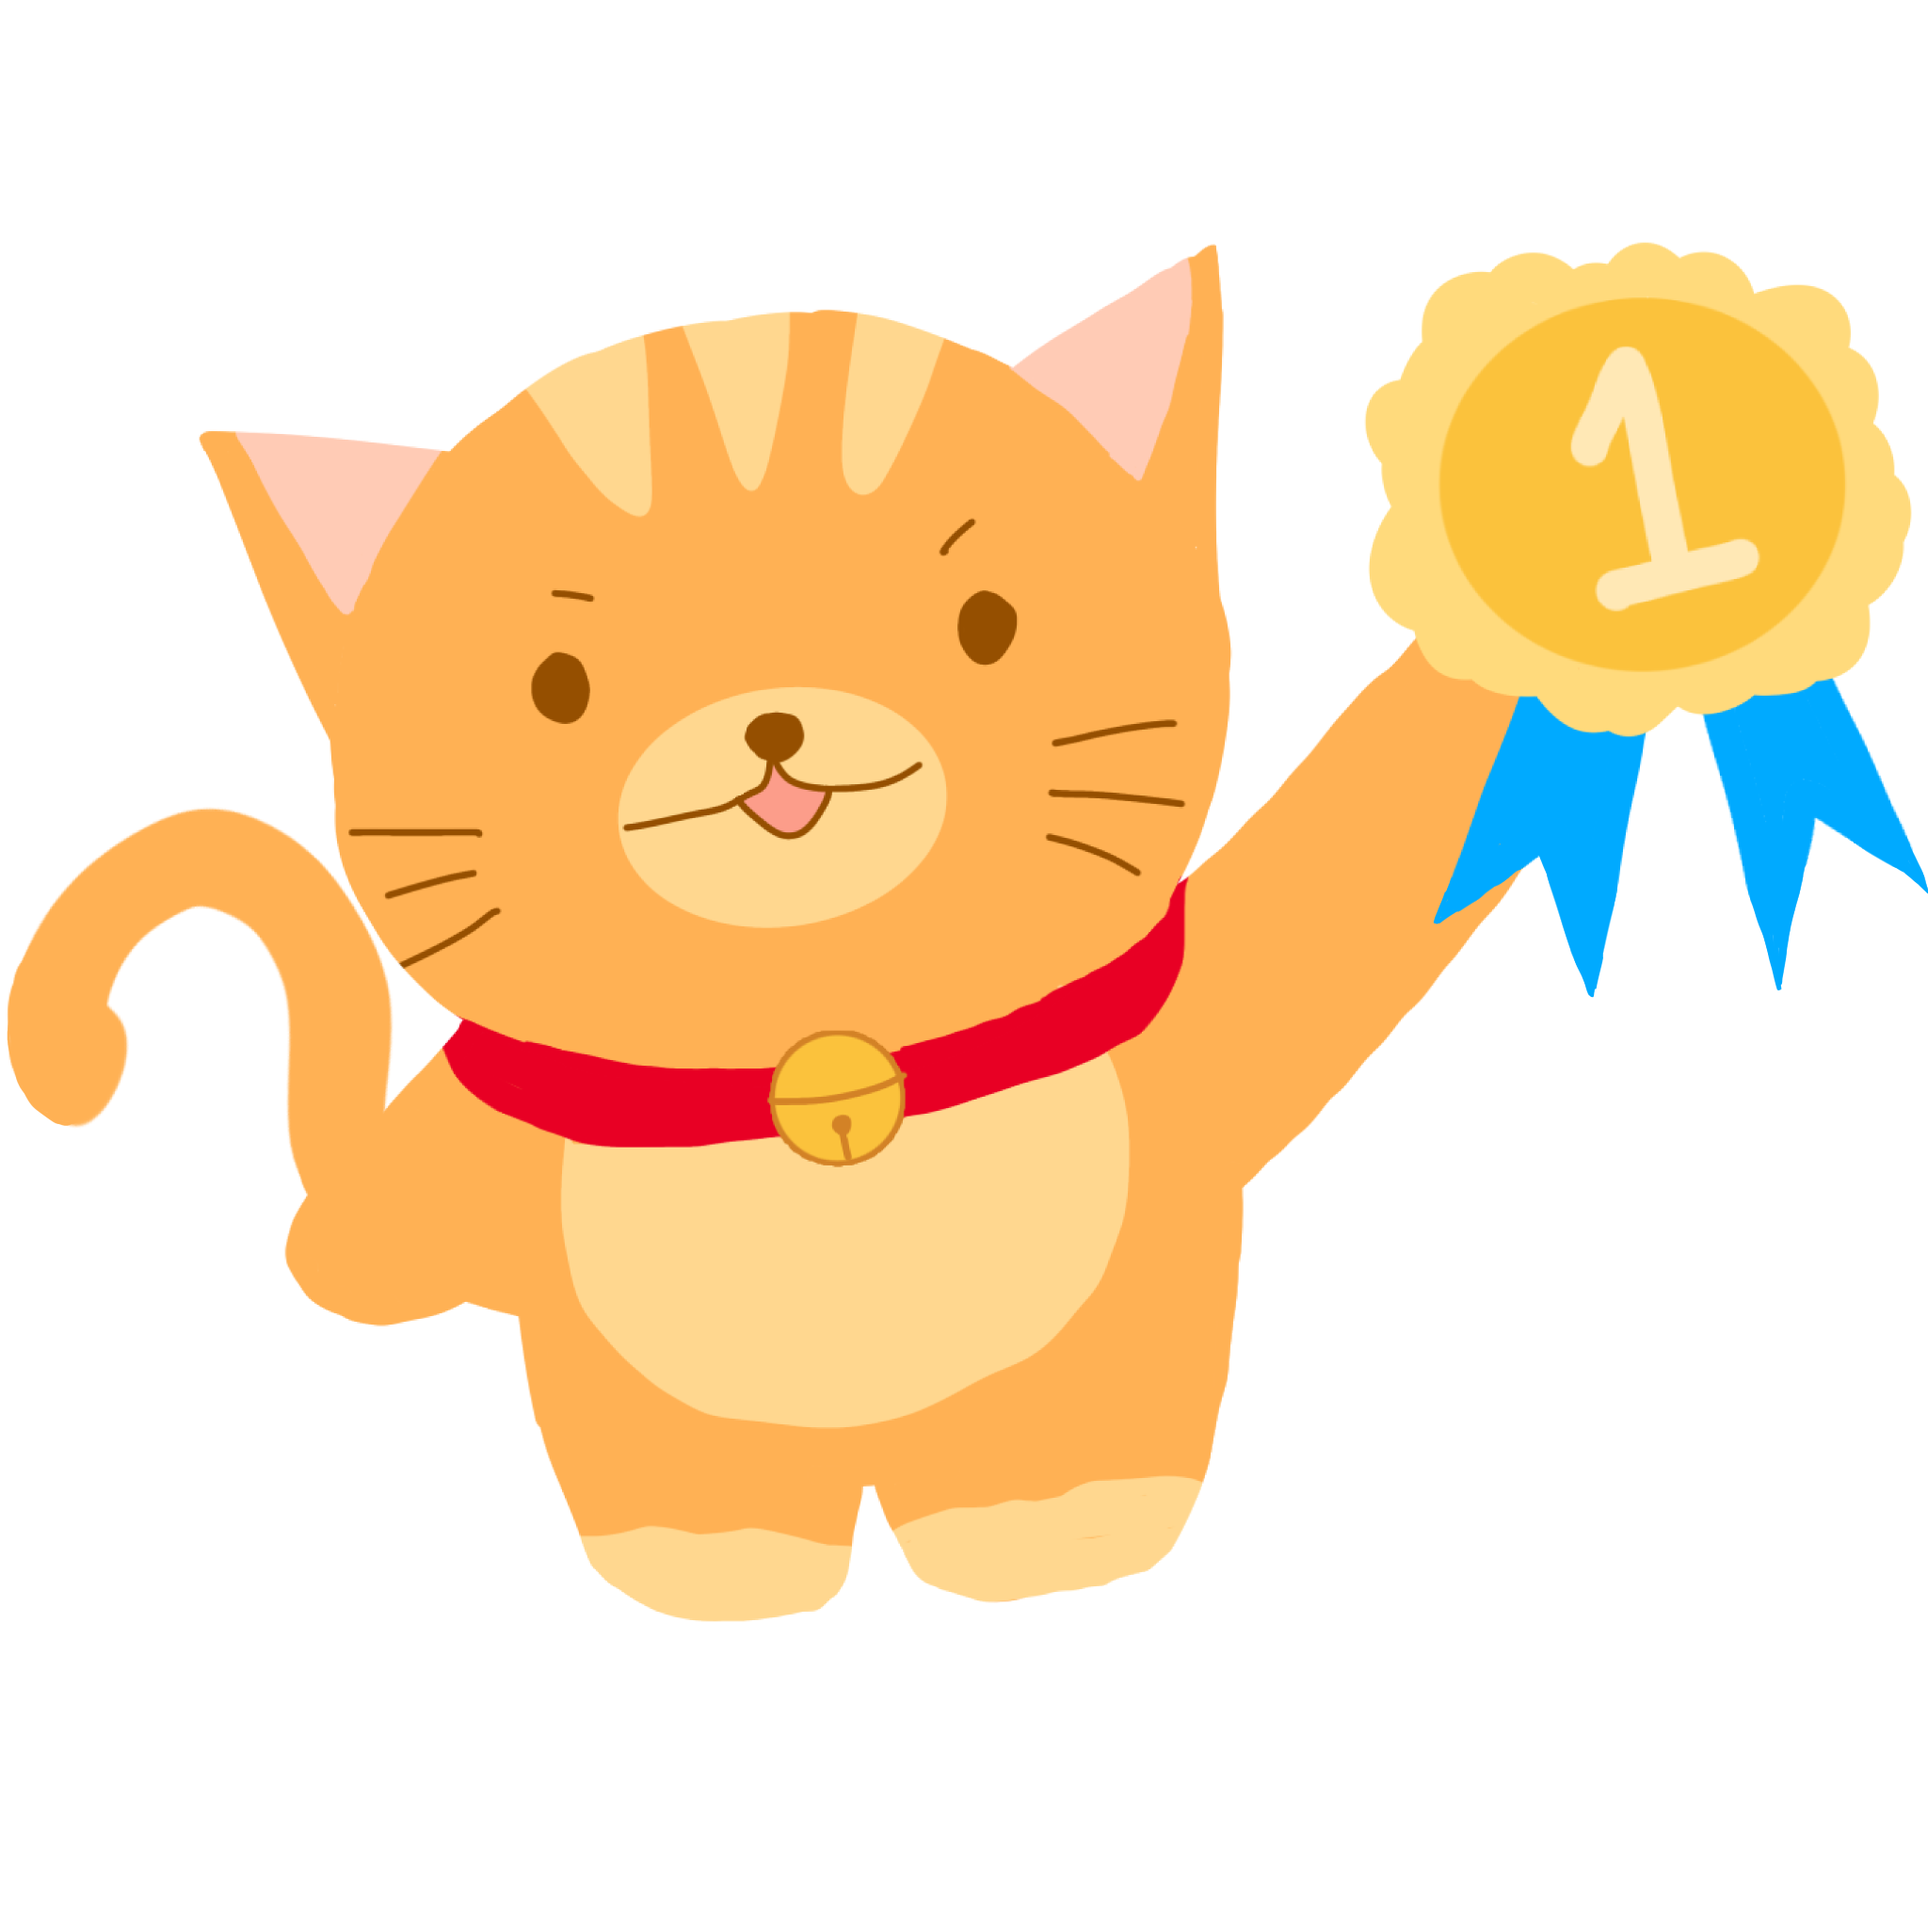
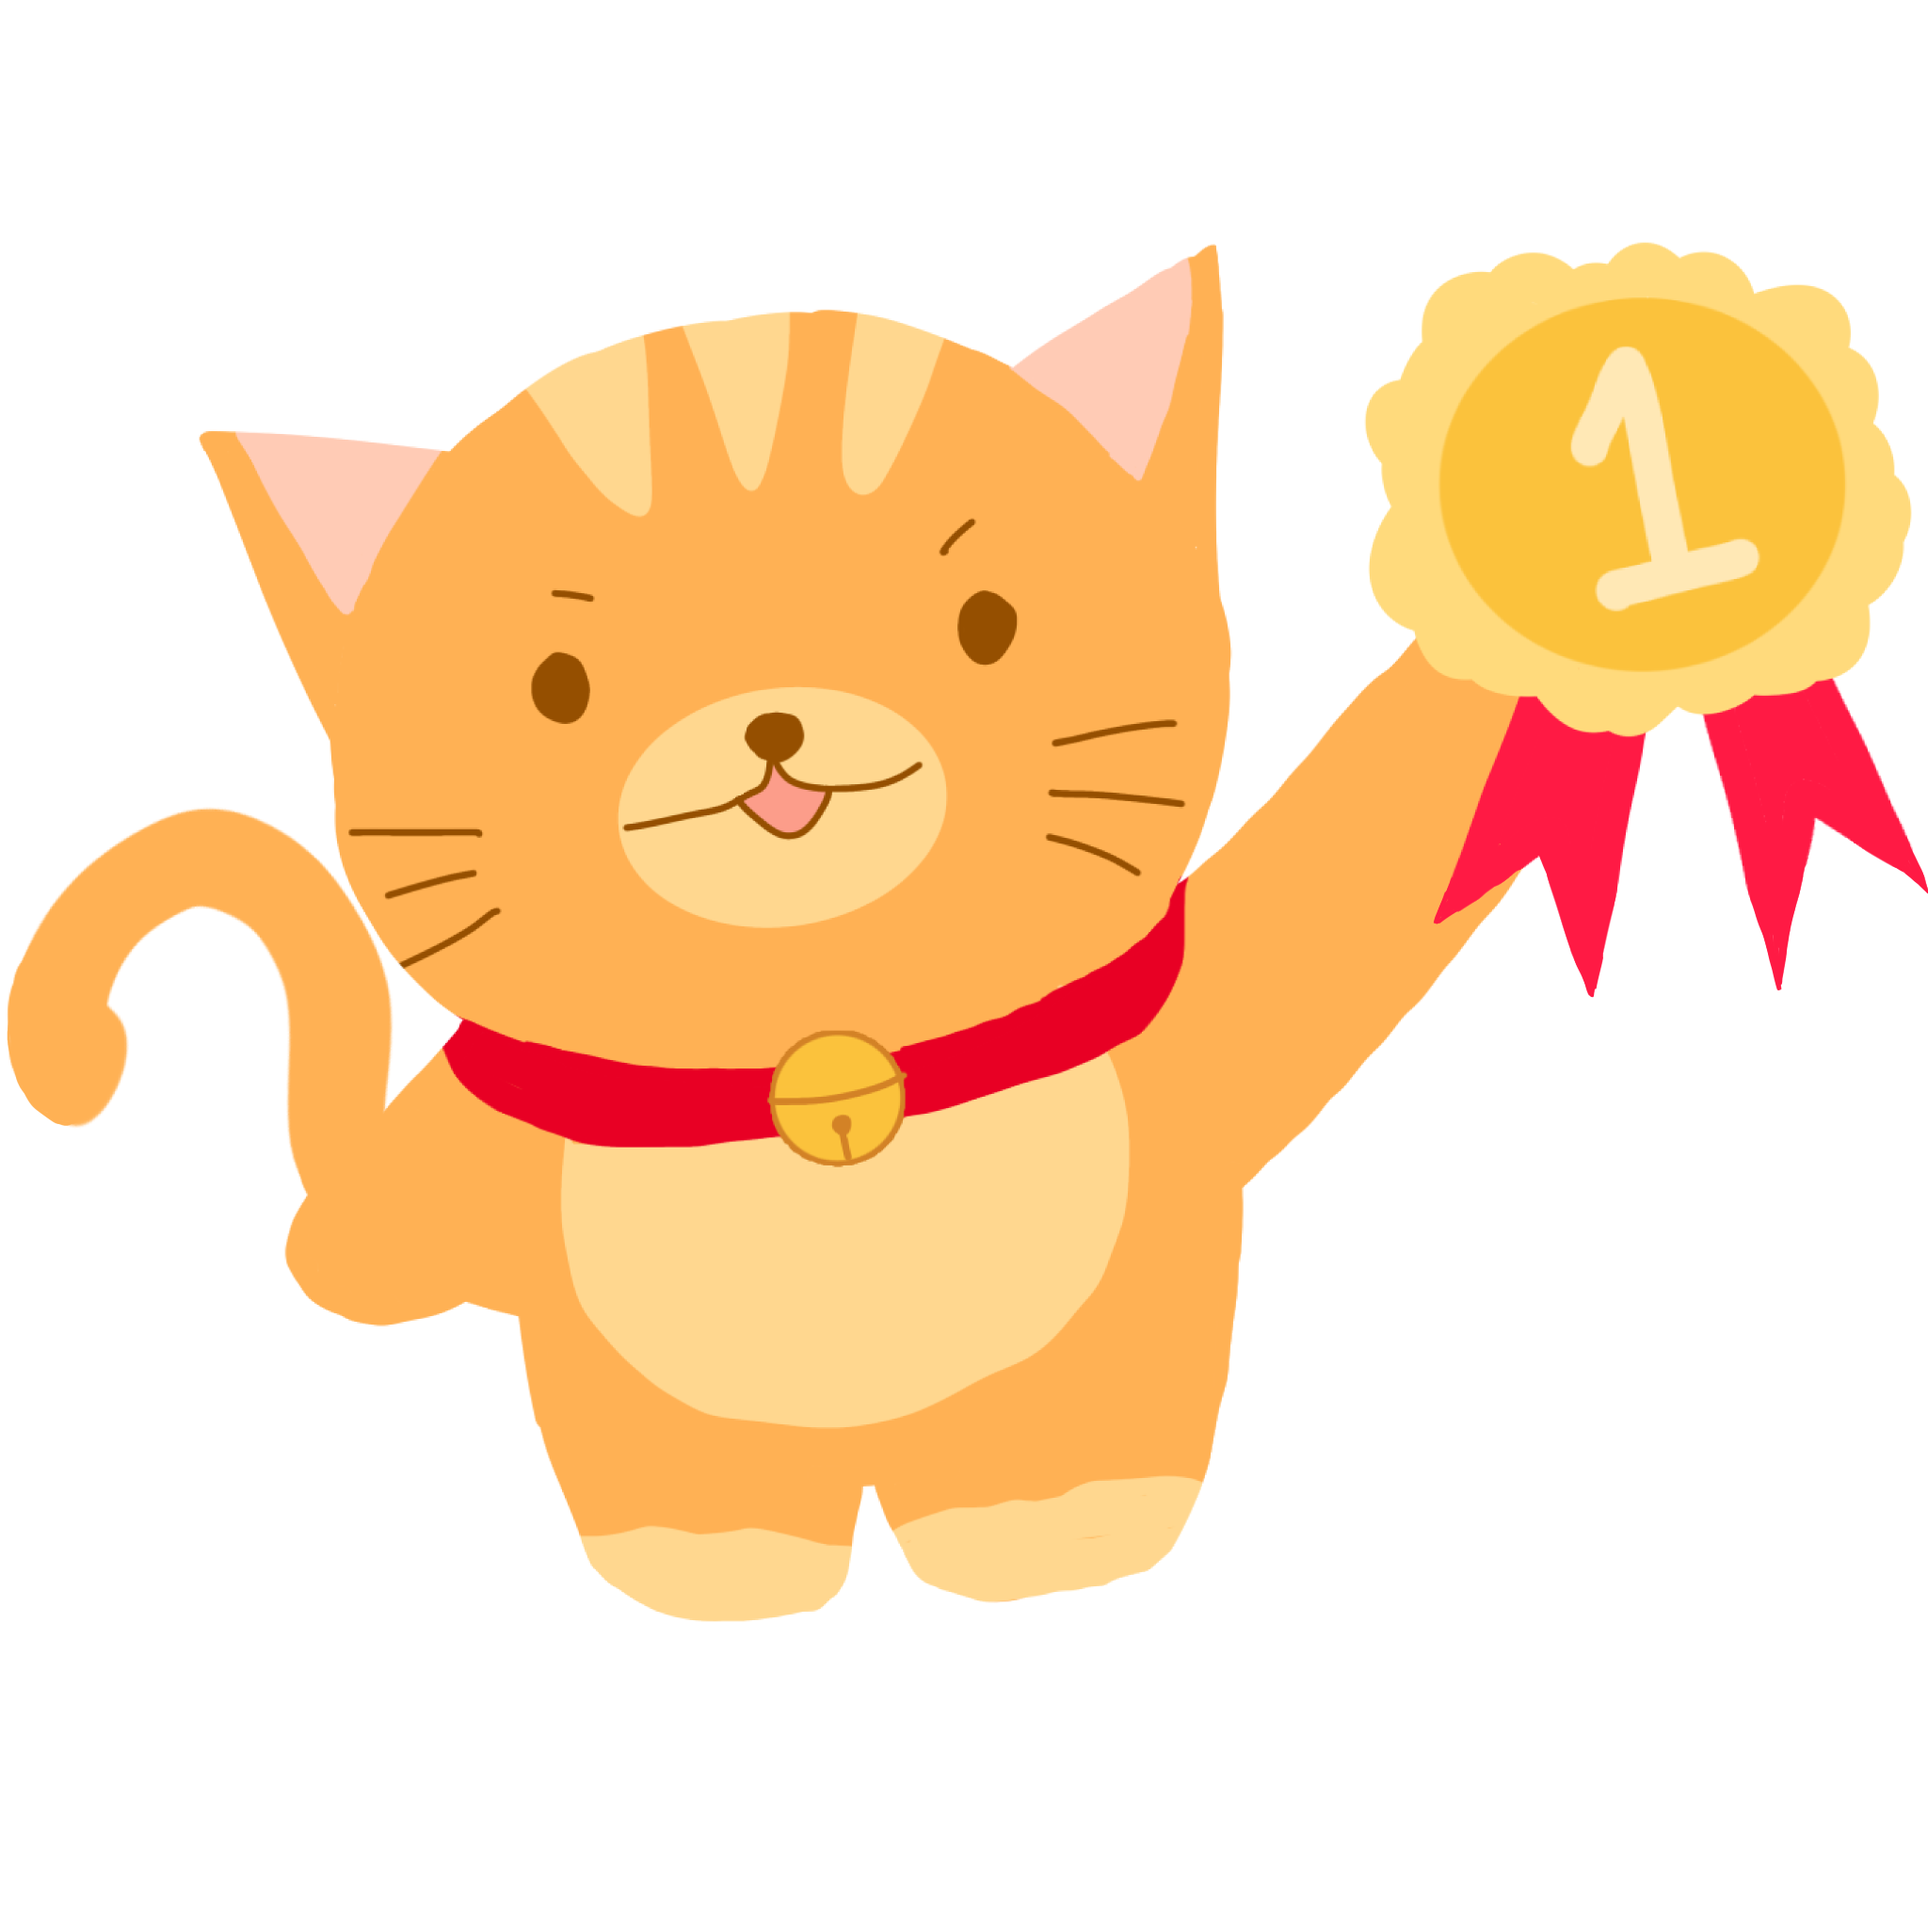
edit assets

Changed region(s): [[0.75, 0.3438, 1.0, 0.5312]]

diff --git a/lib/pages/home/home_page.dart b/lib/pages/home/home_page.dart
@@ -189,7 +189,7 @@ class _HomePageState extends State<HomePage>
           context: context,
           imageAsset: 'assets/common/illustrations/home/learn.png',
           title: 'บทเรียน',
-          backgroundColor: const Color(0xFFBB240A),
+          backgroundColor: const Color(0xFFFF7D98),
           height: layout.cardHeight,
           iconSize: layout.iconSize,
           titleFontSize: layout.titleFontSize,
@@ -210,7 +210,7 @@ class _HomePageState extends State<HomePage>
           context: context,
           imageAsset: 'assets/common/illustrations/home/quiz.png',
           title: 'ทดสอบ',
-          backgroundColor: const Color(0xFFEDCC4D),
+          backgroundColor: const Color(0xFFFFB033),
           height: layout.cardHeight,
           iconSize: layout.iconSize,
           titleFontSize: layout.titleFontSize,
@@ -226,7 +226,7 @@ class _HomePageState extends State<HomePage>
           context: context,
           imageAsset: 'assets/common/illustrations/home/result.png',
           title: 'ผลการทดสอบ',
-          backgroundColor: const Color(0xFF016FBA),
+          backgroundColor: const Color(0xFFDEB1FD),
           height: layout.cardHeight,
           iconSize: layout.iconSize,
           titleFontSize: layout.titleFontSize,
